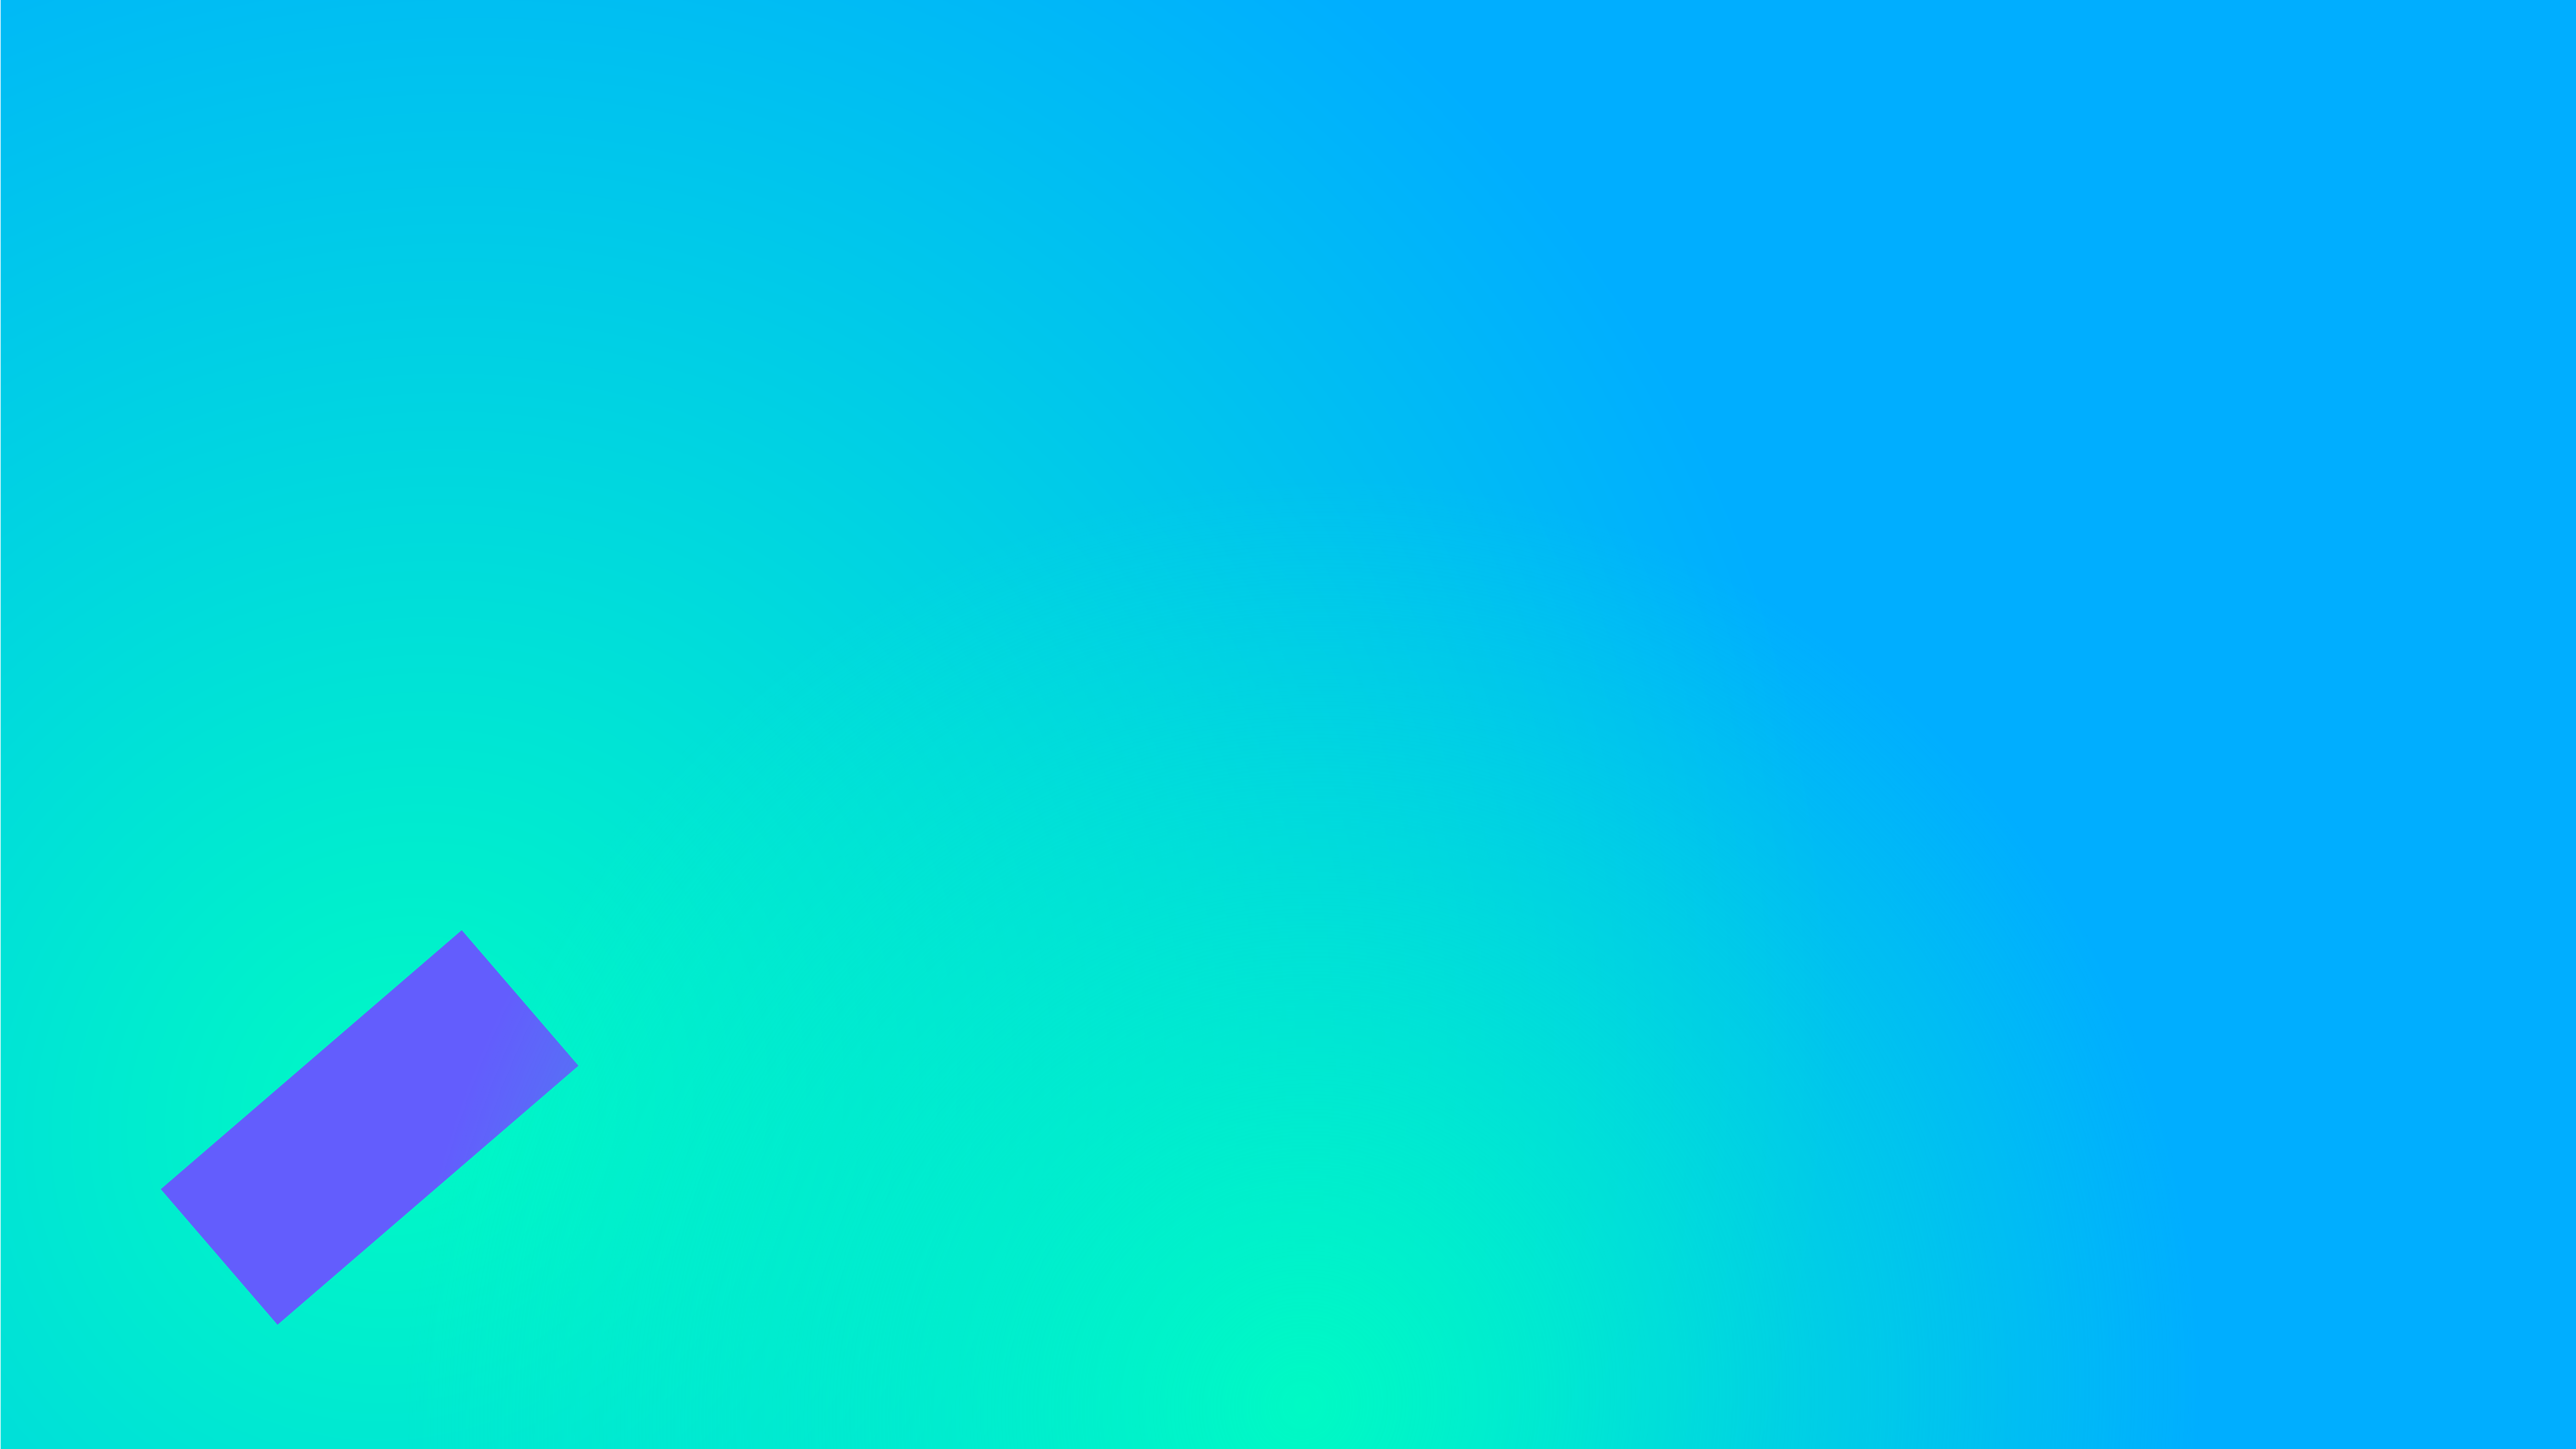
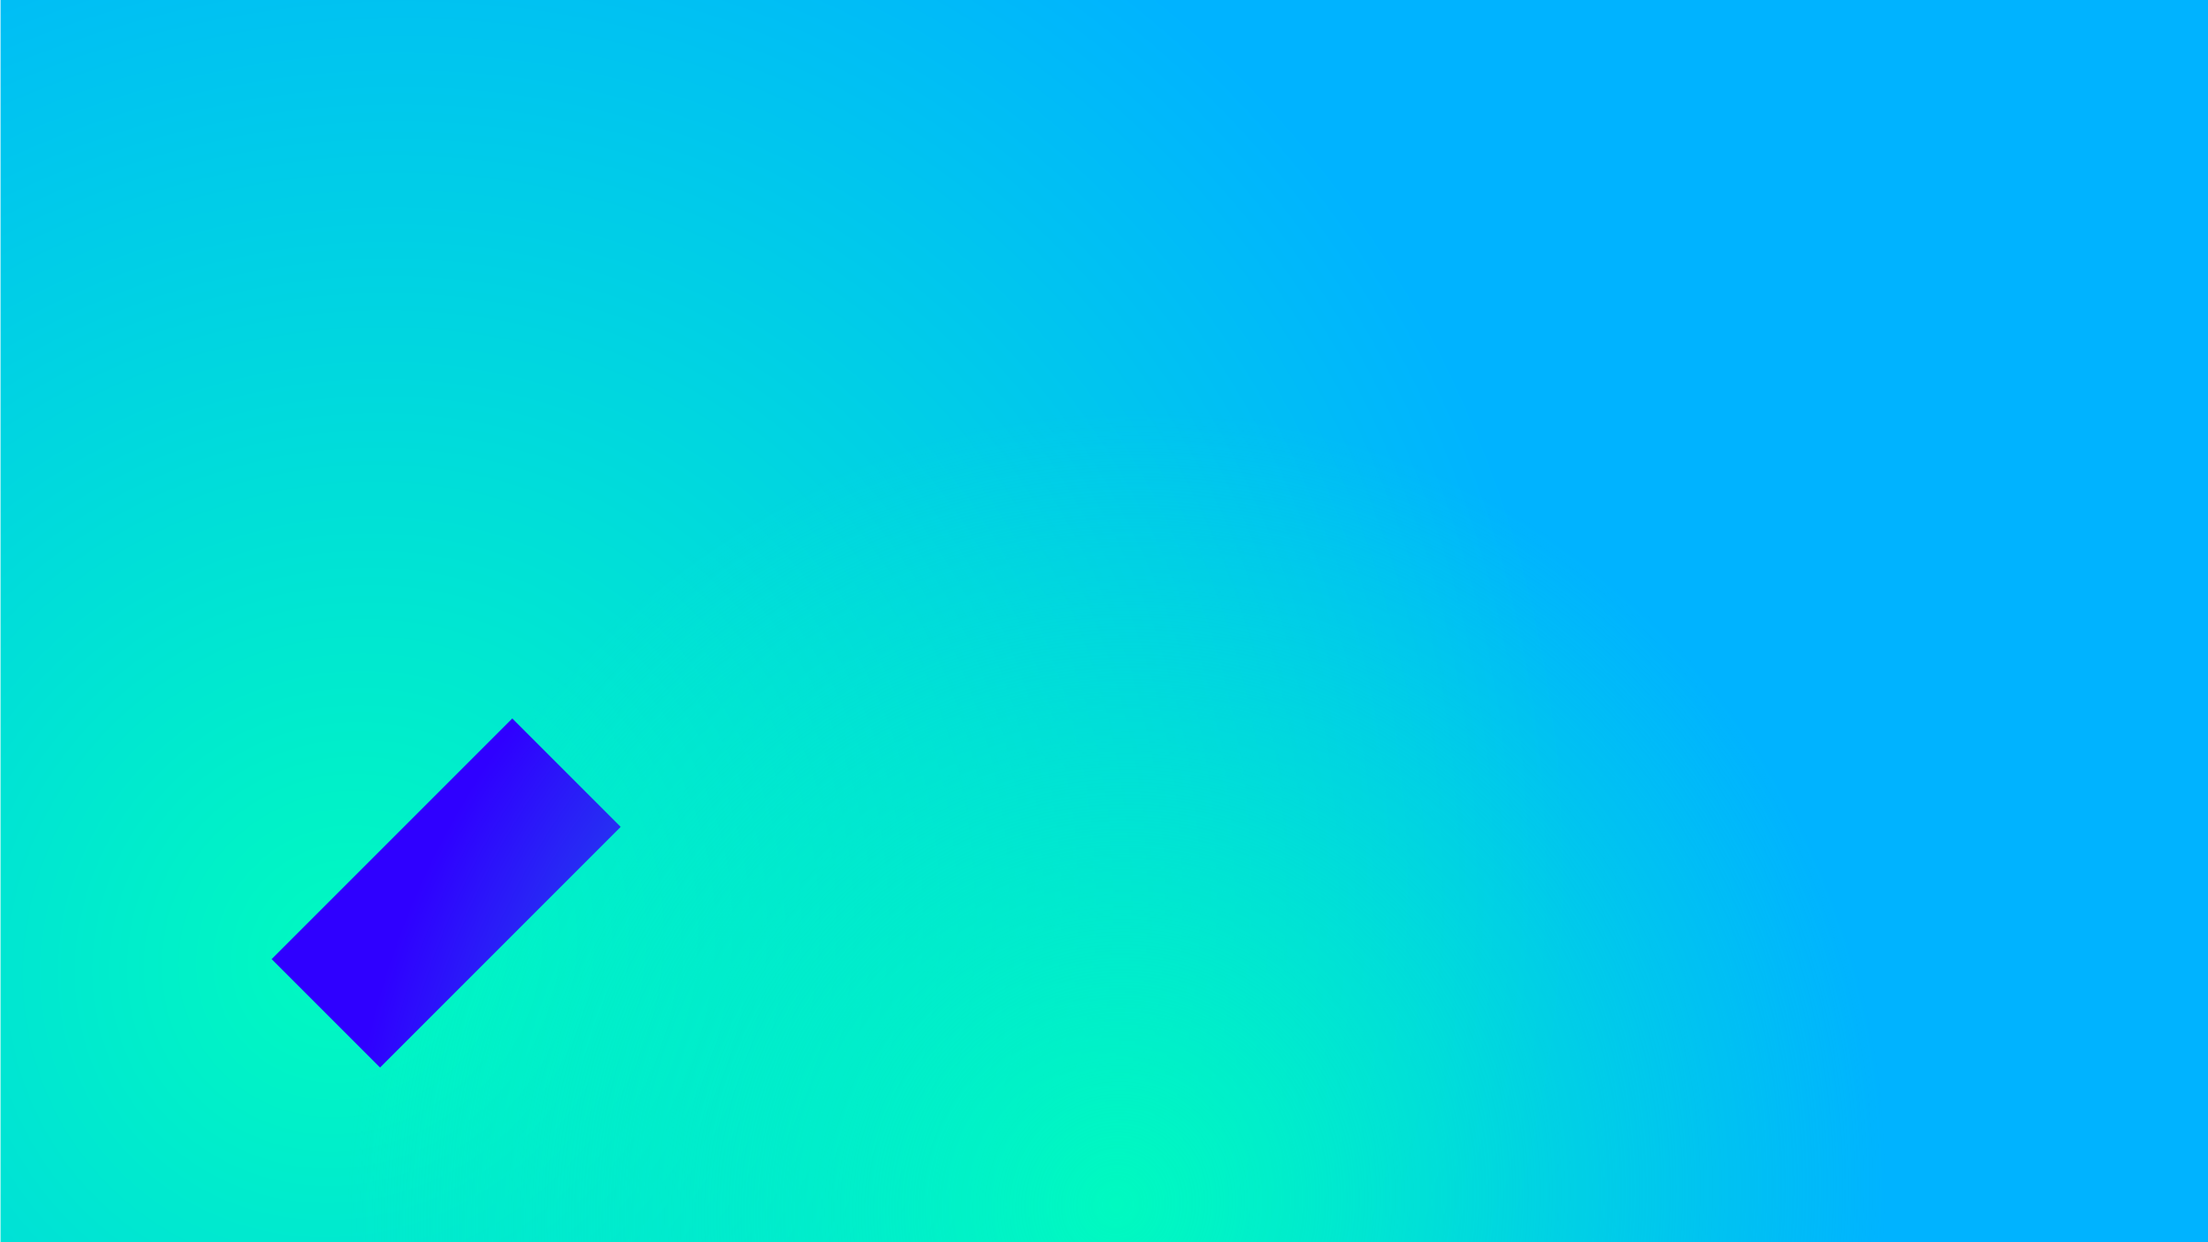
far better

Changed region(s): [[0.0625, 0.5911, 0.2812, 0.9022]]

diff --git a/far-further.ts b/far-further.ts
@@ -6,8 +6,8 @@ const hue1 = 305
 const color1SL = [100, 50]
 const hue2 = 337
 const color2SL = [100, 49]
-const hue3 = 26
-const color3SL = [98, 68]
+const hue3 = 34
+const color3SL = [100, 50]
 
 const adjustColor = (color: number, amount: number) => {
   let result = color + amount;
@@ -17,11 +17,11 @@ const adjustColor = (color: number, amount: number) => {
 }
 
 for (let i = 0; i < 360; i++) {
-  const newColor1 = hsl(adjustColor(hue1, i), color1SL[0], color1SL[1]+45);
-  const newColor2 = hsl(adjustColor(hue2, i), color2SL[0], color2SL[1]+45);
-  const newColor3 = hsl(adjustColor(hue3, i), color3SL[0], color3SL[1]+45);
+  const newColor1 = hsl(adjustColor(hue1, i), color1SL[0], color1SL[1]);
+  const newColor2 = hsl(adjustColor(hue2, i), color2SL[0], color2SL[1]);
+  const newColor3 = hsl(adjustColor(hue3, i), color3SL[0], color3SL[1]);
   let result = farNearer.replace(/COLOR_1/g, newColor1)
   result = result.replace(/COLOR_2/g, newColor2)
   result = result.replace(/COLOR_3/g, newColor3)
-  fs.writeFileSync(`far_nearer${i}.svg`, result)
+  fs.writeFileSync(`generated/far_nearer${i}.svg`, result)
 }
